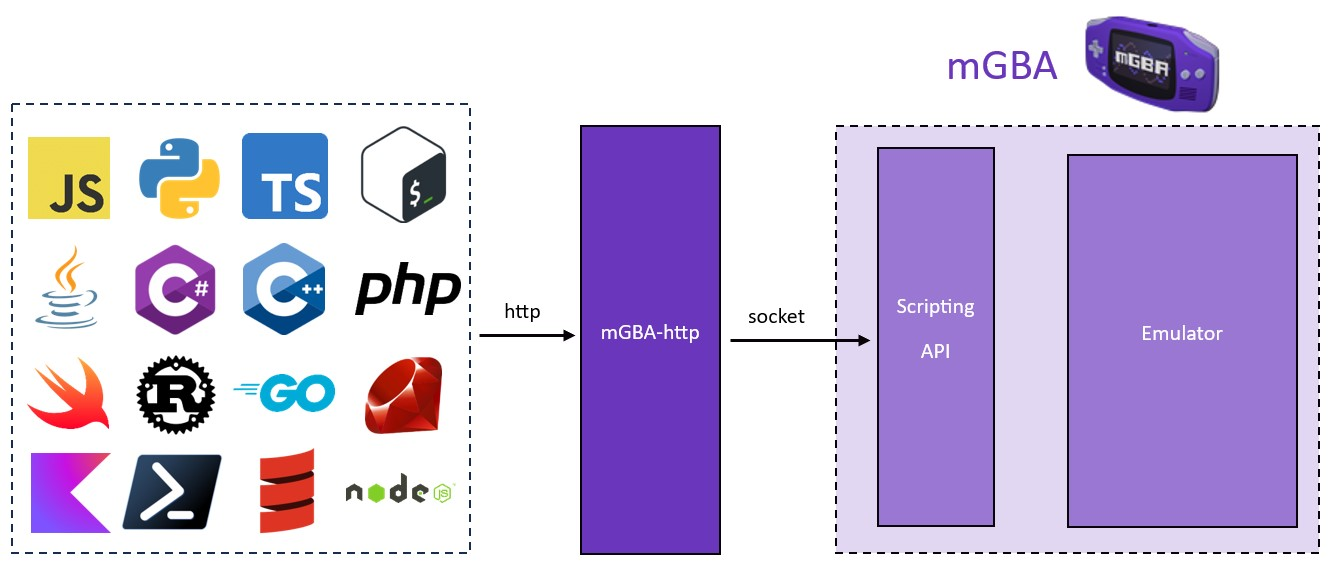
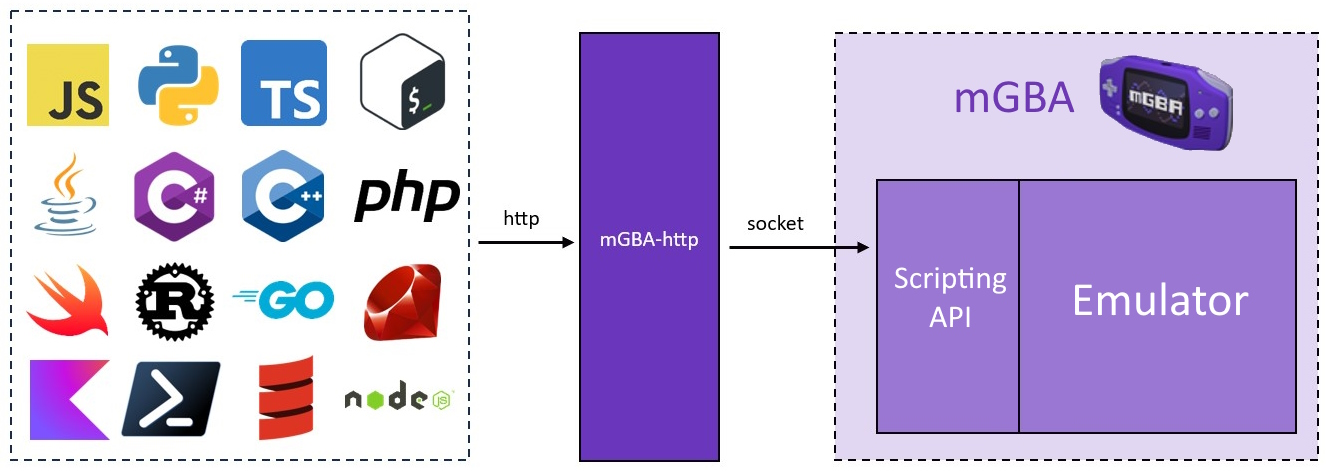
Squashed commit of the following:
commit 0767b53c8f332cd4c0edcbddfe053c5bfc1b0293
Merge: 3576f4c 926cec0
Author: Niko Uusitalo <983351+nikouu@users.noreply.github.com>
Date:   Sun May 11 13:36:42 2025 +1200

    Merge branch 'v0.6.0-doc-updates' of https://github.com/nikouu/mGBA-http into v0.6.0-doc-updates

commit 3576f4c015aeaabc7dbe831a6476402d6092a7fa
Author: Niko Uusitalo <983351+nikouu@users.noreply.github.com>
Date:   Sun May 11 13:36:40 2025 +1200

    Updated docs for v0.6.0

commit 926cec0782efb04eb8542a0549c30b6a3b1085d8
Author: Niko <983351+nikouu@users.noreply.github.com>
Date:   Sun May 11 13:08:32 2025 +1200

    Update Examples.md

commit 359796c18419a446eea2374d45be22efeb4167bb
Author: Niko <983351+nikouu@users.noreply.github.com>
Date:   Sun May 11 13:04:23 2025 +1200

    Update Examples.md

commit d9ed6e3c5cb6613dda4580cceff21a21d64cd998
Author: Niko <983351+nikouu@users.noreply.github.com>
Date:   Sun May 11 13:04:01 2025 +1200

    Update Examples.md

commit 6c8d8044e330194ebe047b8ef8ceeccf076649af
Author: Niko <983351+nikouu@users.noreply.github.com>
Date:   Sun May 11 13:00:35 2025 +1200

    Update README.md

commit c96669a42641112dc00a4f07a2539c79b807ad22
Author: Niko <983351+nikouu@users.noreply.github.com>
Date:   Sun May 11 12:59:33 2025 +1200

    Update README.md

commit cb4f3d0d6890d61e19b4a75a77ea0d8e8f6ceb34
Author: Niko Uusitalo <983351+nikouu@users.noreply.github.com>
Date:   Sun May 11 12:35:57 2025 +1200

    Update FlowDiagram.jpg

diff --git a/testing/Program.cs b/testing/Program.cs
@@ -1,8 +1,8 @@
 using mGBAHttpServerExamples;
 
-//await new Keyboard().Run();
+await new Keyboard().Run();
 
 // Example usage in Program.cs
-var client = new HttpClient() { BaseAddress = new Uri("http://localhost:5000") }; // Set your base address
-var loadTest = new LoadTest(client, requestsPerSecond: 5); // Set desired requests per second
-await loadTest.RunLoadTest(KeysEnum.A, TimeSpan.FromSeconds(30)); // Run for 30 seconds
+//var client = new HttpClient() { BaseAddress = new Uri("http://localhost:5000") }; // Set your base address
+//var loadTest = new LoadTest(client, requestsPerSecond: 5); // Set desired requests per second
+//await loadTest.RunLoadTest(KeysEnum.A, TimeSpan.FromSeconds(30)); // Run for 30 seconds

diff --git a/docs/FullGuide.md b/docs/FullGuide.md
@@ -46,15 +46,37 @@ If needed, there are minimal configuration points
 #### appsettings.json
 This file is **not** required for running mGBA-http normally. 
 
-However, if you need to configure ports or logging, download this file from the releases page and put it in the same directory as mGBA-http. mGBA-http will pick up on these settings when run. See the [ASP.NET Core logging documentation](https://learn.microsoft.com/en-us/aspnet/core/fundamentals/logging/?view=aspnetcore-8.0#configure-logging) for more.
+However, if you need further configuration, download this file from the releases page and put it in the same directory as mGBA-http. mGBA-http will pick up on these settings when run. See the [ASP.NET Core logging documentation](https://learn.microsoft.com/en-us/aspnet/core/fundamentals/logging/?view=aspnetcore-8.0#configure-logging) for more.
 
-See below how the HTTP port has changed from the `5000` to `6969` and there is now an HTTPS endpoint as well at `6970`. Harder to picture is the log levels are now mostly set to warning, from the in-built defaults of error.
+The following configuration is available:
 
-![](Images/PortChange.jpg)
+| Config                                                | Notes                                                                |
+| ----------------------------------------------------- | -------------------------------------------------------------------- |
+| `Logging.LogLevel`                                    | Configure log levels                                                 |
+| `Logging.LogFilters`                                  | Filter log levels                                                    |
+| `Logging.Console.FormatterOptions.IncludeJsonDetails` | Includes a more full log entry in the console as a JSON string       |
+| `Logging.Console.FormatterOptions.TimestampFormat`    | Update the timestamp format of the console log entries.              |
+| `Kestrel.Endpoints`                                   | These are the mGBA-http listening ports                              |
+| `mgba-http`                                           | These are the socket configurations for connecting mGBA-http to mGBA |
+
+The image below shows to changes to the default settings:
+1. `IncludeJsonDetails` to true
+1. Update the mGBA-http listening ports
+
+![](Images/UpdatedSettingsExample.jpg)
+
 
 #### mGBASocketServer.lua
 
-At the top, there is the `enableLogging` flag. This will output timestamped logs to the scripting console if set to `true`. Otherwise set to `false` for no logging.
+At the top, there is the `logLevel` flag. This will output timestamped logs to the scripting console based on the severity of the log entry. By default it is set to **2 - Information**:
+
+| Value | Name        | Description  |
+| ----- | ----------- | ------------ |
+| 1     | Debug       | Debug logs   |
+| 2     | Information | Info logs    |
+| 3     | Warning     | Warning logs |
+| 4     | Error       | Error logs   |
+| 5     | None        | No logging   |
 
 ### Gotchas
 - Make sure not to load the script twice. This causes issues with recieving data. If you need to reload the script, close and reopen mGBA then load up the script again. Closing and reopening the scripting window is not enough. 
@@ -64,4 +86,5 @@ At the top, there is the `enableLogging` flag. This will output timestamped logs
 
 ### Examples
 1. See the [examples page](Examples.md).
-1. There is a test console project where you can send keys to mGBA.
+1. There is a [C# test console project](/testing/) where you can send keys to mGBA.
+1. The [CPU-Plays-Pokemon repo](https://github.com/nikouu/CPU-Plays-Pokemon).

diff --git a/docs/Examples.md b/docs/Examples.md
@@ -18,9 +18,7 @@ Using the C# console app mGBAHttpServer.TestClient included in this repository, 
 | -------------------- | -------------- | -------------- | -------- |
 | Moving the character | Pokémon Yellow | C# console app | /button  |
 
-https://github.com/nikouu/mGBA-http/assets/983351/691d5379-ed7d-4f58-9f93-24223e35f275
-
-*API has been updated since this video, but the functionality is the same.*
+https://github.com/user-attachments/assets/e136f6f3-5a17-49fa-8160-ee33609080a1
 
 ### Code
 See [mGBAHttpServer.TestClient](../src/mGBAHttpServer.TestClient).
@@ -42,6 +40,8 @@ We can validate this by checking the nature of the Pokémon just caught. In this
 
 https://github.com/nikouu/mGBA-http/assets/983351/43ee097c-3d21-464b-93da-3227334dc586
 
+*Note: This video is from an earlier version of mGBA-http, however the calls are the same.*
+
 ### Code
 N/A, uses SwaggerUI.
 
@@ -56,6 +56,8 @@ The bomb count on the top right of the game going from 35 to 50.
 
 https://github.com/nikouu/mGBA-http/assets/983351/b63bf880-aba9-4963-871b-5ce0ce8929ae
 
+*Note: This video is from an earlier version of mGBA-http, however the calls are the same.*
+
 ### Code
 N/A, uses Postman.
 
@@ -67,6 +69,8 @@ Automating loading a savestate is easy. Perhaps your bot needs to reset the game
 | Loading a specific save file | The Legend of Zelda: Oracle of Seasons | Node.js | /core/loadstatefile |
 
 https://github.com/nikouu/mGBA-http/assets/983351/8faf78fd-99fe-4d2d-80fe-90c64c0d6cf4
+
+*Note: This video is from an earlier version of mGBA-http, however the calls are the same.*
 
 ### Code
 ```javascript
@@ -102,6 +106,8 @@ Perhaps your AI bot needs a way to see the game world. Maybe your Twitch audienc
 
 https://github.com/nikouu/mGBA-http/assets/983351/22f9ce71-31ca-4cd2-aad9-ac80fa58c3b5
 
+*Note: This video is from an earlier version of mGBA-http, however the calls are the same.*
+
 ### Code
 ```python
 import requests
@@ -123,6 +129,8 @@ A lot of the calls are simple GET requests, meaning we can even use the URL bar 
 
 https://github.com/nikouu/mGBA-http/assets/983351/c70ae826-9e5b-4a89-a334-e96d7d6a6f7d
 
+*Note: This video is from an earlier version of mGBA-http, however the calls are the same.*
+
 ### Code
 ```
 http://localhost:5000/core/getframecount
@@ -137,6 +145,8 @@ Each retail game has the game title in the header, here we use PowerShell (*???*
 | Get game title from ROM header | Pokémon FireRed | PowerShell | /core/getgametitle |
 
 https://github.com/nikouu/mGBA-http/assets/983351/6e734fd3-2838-406d-9237-bde0fa26d630
+
+*Note: This video is from an earlier version of mGBA-http, however the calls are the same.*
 
 ### Code
 ```powershell

diff --git a/README.md b/README.md
@@ -28,11 +28,11 @@ In the example below, we accept inputs from one program and send them to mGBA:
 - (bottom left) mGBA's built-in scripting API accepting the requests from mGBA-http
 - (bottom right) then the key inputs are read by the ROM
 
+https://github.com/user-attachments/assets/e136f6f3-5a17-49fa-8160-ee33609080a1
+
 If you want to see more real examples with videos, code, and explanations, check out the [examples page](docs/Examples.md).
 
 There are also C# examples I use for testing in the [testing](testing) folder.
-
-https://github.com/nikouu/mGBA-http/assets/983351/691d5379-ed7d-4f58-9f93-24223e35f275
 
 ## Quick Start Guide
 mGBA-http works with 0.10.2+.
